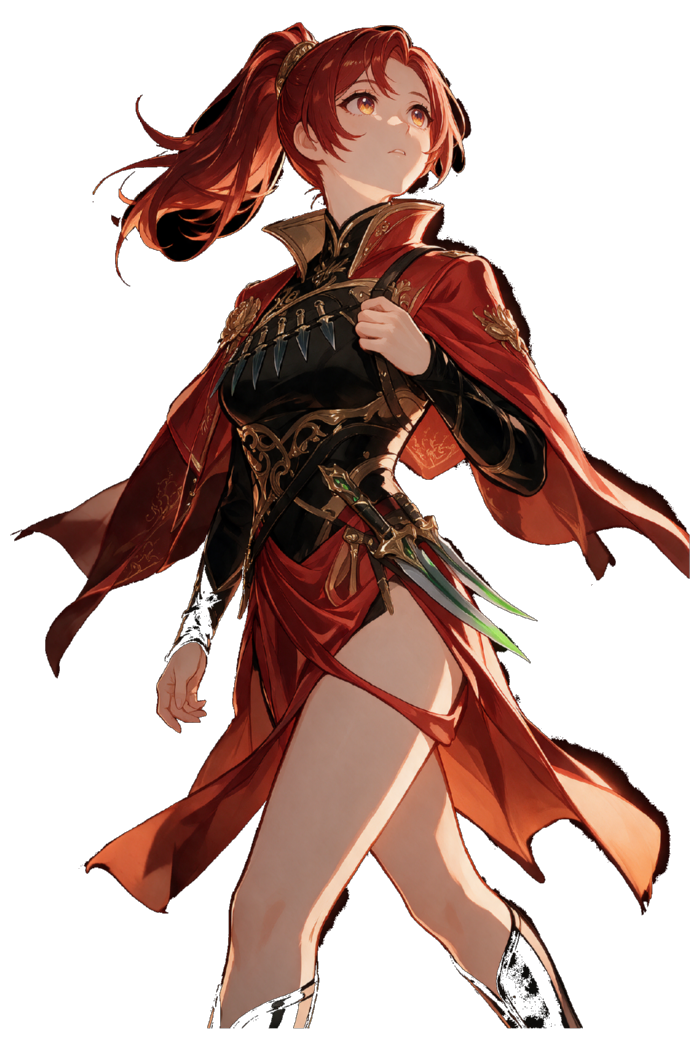
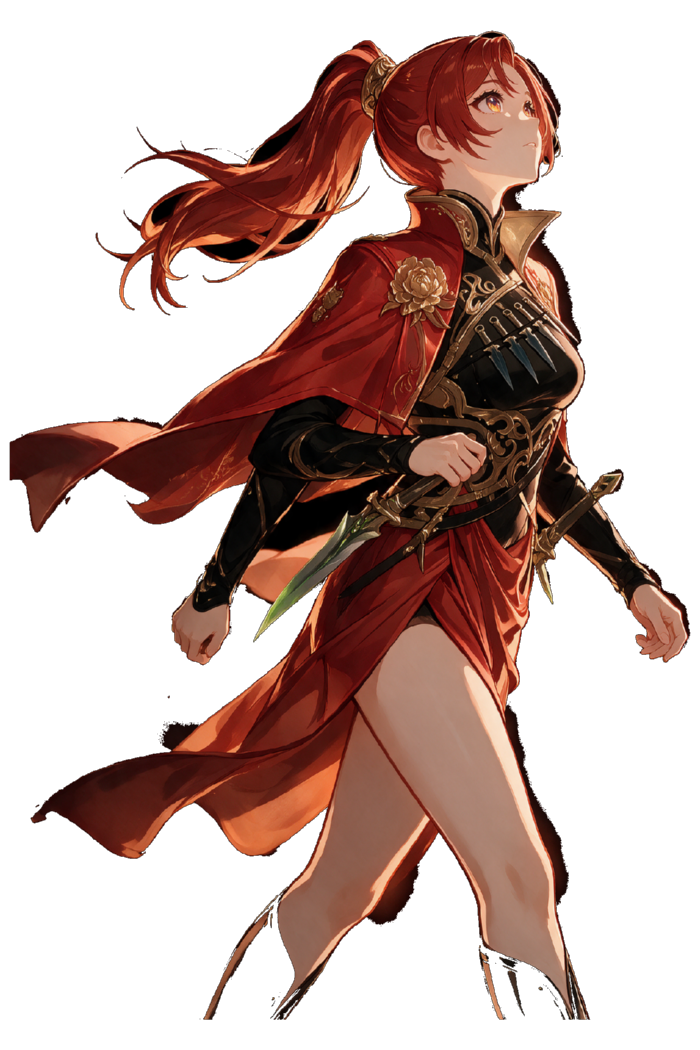
Turn the rogue's walk pose around: she travels toward the RIGHT
Thomas: "she needs to be walking towards the right though." Correct, and the
first version was wrong for a compositional reason rather than a taste one:
the hero stands foreground-LEFT and the road and the foe are upper-RIGHT, so
walking left means walking out of the scene, away from where the journey goes.
My prompt had literally said "moving toward the LEFT of the frame".

Regenerated from the locked plate via image2image again, so she is still the
same person: body angled right, leading shoulder and forward foot to the
right, cape and ponytail streaming back to the LEFT behind the direction of
travel, head up and ahead past the top-right corner. Blades stay sheathed -
a journey is travel, not a duel.

Picked the cleaner of the two candidates; the other had a keying artifact by
her hand.

Verified at build 246: journey loads rogue-walk, fight loads rogue-cast, both
700x1050 with has-art, both 200.

Note for whoever reads this next: I tried to verify facing direction by
comparing horizontal centres of mass between bands of the plate, and it does
NOT work - two visibly opposite poses measured 0.507 and 0.500, because the
figure's own mass swamps the trailing cloth. Direction is an eyeball check.

diff --git a/index.html b/index.html
@@ -20,7 +20,7 @@
 <link rel="manifest" href="manifest.json">
 <link rel="icon" type="image/svg+xml" href="icon.svg">
 <link rel="apple-touch-icon" href="icon-192.png">
-<link rel="stylesheet" href="style.css?v=245">
+<link rel="stylesheet" href="style.css?v=246">
 </head>
 <body>
 <header>
@@ -48,6 +48,6 @@
   </div>
 </main>
 
-<script src="game.js?v=245"></script>
+<script src="game.js?v=246"></script>
 </body>
 </html>
